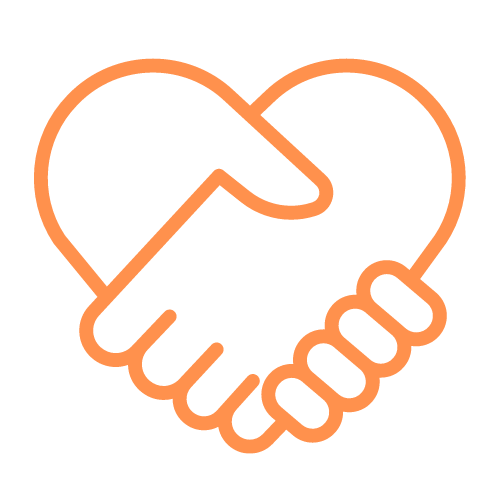
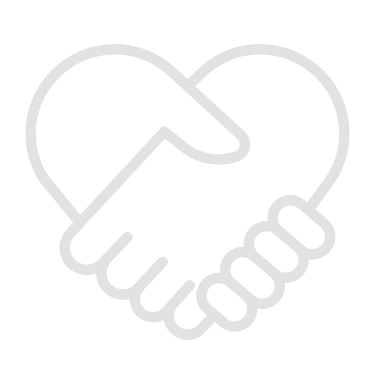
cambios

Changed region(s): [[0.0587, 0.1173, 0.9387, 0.9093]]

diff --git a/BunkGym/src/components/NuestroEquipo/NuestroEquipo.css b/BunkGym/src/components/NuestroEquipo/NuestroEquipo.css
@@ -1,10 +1,11 @@
-.nuestro-equipo{
+.nuestro-equipo {
     background-color: rgb(185, 185, 185);
     padding-top: 3rem;
     padding-bottom: 2rem;
+    overflow: hidden;
 }
-.nuestro-equipo-container{
-    
+
+.nuestro-equipo-container {
     display: flex;
     flex-direction: column;
     align-items: center;
@@ -13,16 +14,19 @@
     padding: 1rem;
     gap: 2rem;
 }
-.nuestro-equipo-card{
+
+.nuestro-equipo-card {
     display: flex;
     flex-direction: column;
     align-items: center;
-    justify-content: center;
+    justify-content: start;
     gap: 8px;
     width: 13%;
-    height: 300px;
+    height: 260px;
+    position: relative;
 }
-.nuestro-equipo-lista{
+
+.nuestro-equipo-lista {
     display: flex;
     flex-direction: row;
     gap: 20px;
@@ -30,51 +34,20 @@
     padding: 2rem 0;
 }
 
-.nuestro-equipo-imagen{
-    width: 170px;
-    height: 170px;
-    border-radius: 5%;
-    object-fit: cover;
-    margin-bottom: 30px;
-    background-color: rgb(87, 231, 236);
+.imagen-container {
     position: relative;
+    width: 170px;
+    height: 180px;
 }
 
+.nuestro-equipo-imagen-fondo,
 .nuestro-equipo-imagen {
-    width: 170px;
-    height: 180px;
-    border-radius: 5%;
-    object-fit: cover;
-    margin-bottom: 30px;
-    background-color: rgb(87, 231, 236);
-    position: relative;
-    overflow: hidden; /* Asegúrate de que el pseudo-elemento no se salga del contorno del borde redondeado */
-}
-
-.nuestro-equipo-card .imagen-container {
-    position: relative;
-    width: 170px;
-    height: 180px;
-}
-
-.nuestro-equipo-imagen-fondo, .nuestro-equipo-imagen {
-    position: absolute;
-    top: 0;
-    left: 0;
     width: 100%;
-    height: 100%;
     border-radius: 5%;
     object-fit: cover;
 }
 
-.nuestro-equipo-imagen-fondo {
-    filter: blur(1px); /* Opcional: efecto de desenfoque para la imagen de fondo */
-    transform: translate(10px, 10px); /* Desplaza la imagen de fondo */
-    z-index: 5; /* Asegura que la imagen de fondo esté detrás */
-}
-
-
-.nuestro-equipo-nombre{
+.nuestro-equipo-nombre {
     font-size: 1.3rem;
     font-weight: 600;
     text-align: center;
@@ -82,24 +55,38 @@
     text-transform: uppercase;
 }
 
-
-
-
-.nuestro-equipo-titulo{
+.nuestro-equipo-titulo {
     font-size: 1rem;
     font-weight: 400;
     text-align: center;
 }
 
-.nuestro-equipo-text    {
-    font-size: 1.2rem;
-    font-weight: 400;
-    text-align: center;
-    letter-spacing: 1px;
-    color: #2e2e2e;
-}
-
-.nuestro-equipo-subtitulo{
+.nuestro-equipo-subtitulo {
     width: 75%;
-
+}
+.nuestro-equipo-imagen{
+    width: 100%;
+    border-radius: 5%;
+    object-fit: cover;
+    z-index: 6;
+}
+.imagen-frame{
+    border: 1px solid white;
+    width: 100%;
+    height: 100%;
+    position: absolute;
+    top: 3px;
+    left: 4px;
+    z-index: 0;
+    border-radius: 5px;
+}
+.imagen-frame2{
+    width: 100%;
+    height: 100%;
+    position: absolute;
+    top: -5px;
+    left: -5px;
+    z-index: -0;
+    border-radius: 5px;
+    border: 1px solid rgb(27, 27, 27);
 }

diff --git a/BunkGym/src/components/NuestroEquipo/NuestroEquipo.jsx b/BunkGym/src/components/NuestroEquipo/NuestroEquipo.jsx
@@ -8,7 +8,7 @@ import imagenJavier from '../../assets/fotopersona.png';
 import imagenSevillano from '../../assets/fotopersona.png';
 import imagenJorge from '../../assets/fotopersona.png';
 import imagenDavid from '../../assets/fotopersona.png';
-import exampleimage  from '../../assets/27.png';
+import exampleimage from '../../assets/27.png';
 
 const NuestroEquipo = () => {
     // Definir los miembros del equipo
@@ -33,8 +33,9 @@ const NuestroEquipo = () => {
                 {miembros.map((miembro, index) => (
                     <div key={index} className='nuestro-equipo-card'>
                         <div className='imagen-container'>
-                            <img src={miembro.imagenFondo} alt={`Fondo de ${miembro.nombre}`} className='nuestro-equipo-imagen-fondo'/>
-                            <img src={miembro.imagen} alt={miembro.nombre} className='nuestro-equipo-imagen'/>
+                            <img src={miembro.imagen} alt={miembro.nombre} className='nuestro-equipo-imagen' />
+                            <div className='imagen-frame'></div>
+                            <div className='imagen-frame2'></div>
                         </div>
                         <h3 className='nuestro-equipo-nombre'>{miembro.nombre}</h3>
                         <p className='nuestro-equipo-titulo'>{miembro.titulo}</p>

diff --git a/BunkGym/src/components/Paraquien/Paraquien.jsx b/BunkGym/src/components/Paraquien/Paraquien.jsx
@@ -1,11 +1,11 @@
 import React, { useState } from 'react'
 import './Paraquien.css'
-import paraquien1 from '../../assets/3.png'
-import paraquien2 from '../../assets/4.png'
-import paraquien3 from '../../assets/5.png'
-import paraquien4 from '../../assets/6.png'
-import paraquien5 from '../../assets/7.png'
-import paraquien6 from '../../assets/9.png'
+import paraquien1 from '../../assets/paraquien1.png'
+import paraquien2 from '../../assets/paraquien2.png'
+import paraquien3 from '../../assets/paraquien3.png'
+import paraquien4 from '../../assets/paraquien4.png'
+import paraquien5 from '../../assets/paraquien5.png'
+import paraquien6 from '../../assets/paraquien6.png'
 
 const Paraquien = () => {
     const [hoveredImage, setHoveredImage] = useState(null);
@@ -35,7 +35,7 @@ const Paraquien = () => {
                         className="image-wrapper">
                         <p className='hover-text'>{image.text}</p>
                         <img src={image.src} alt="" style={{
-                            width: hoveredImage === index ? '280px' : '200px',
+                            width: hoveredImage === index ? '280px' : '210px',
                             transition: 'width 0.3s ease'
                         }} />
                         <div className=""></div>

diff --git a/BunkGym/src/components/Footer/Footer.css b/BunkGym/src/components/Footer/Footer.css
@@ -76,7 +76,7 @@
 .footer-title{
     font-size: 1.4rem;
     font-weight: bold;
-    color: rgb(255, 140, 0);
+    color: rgb(70, 70, 70);
 }
 .footer-ul{
     list-style: none;
@@ -94,18 +94,19 @@
     text-decoration: underline;
 }
 .span-telefono{
-    color: rgb(255, 140, 0);
+    color: rgb(125, 125, 125);
     font-weight: bold;
     font-size: 1.4rem;
 }
 .footer-button{
-    background-color: rgb(255, 140, 0);
-    color: rgb(255, 255, 255);
+    background-color: rgb(188, 188, 188);
+    color: rgb(24, 24, 24);
     border: none;
     padding: 1rem;
     border-radius: 5px;
     cursor: pointer;
     font-size: 1.4rem;
+    font-weight: 600;
 }
 
 
@@ -161,5 +162,5 @@
     margin: 0;
     padding: 0;
     font-size: 1rem;
-    color: rgb(255, 129, 40);
+    color: rgb(139, 139, 139);
 }

diff --git a/BunkGym/src/components/Footer/Footer.jsx b/BunkGym/src/components/Footer/Footer.jsx
@@ -100,7 +100,7 @@ const Footer = () => {
                     <div className="footer-section">
                         <h3 className='footer-title'>Novedades y descuentos<br></br> exclusivos</h3>
                         <p>Ingresa tu correo electrónico</p>
-                        <button className='footer-button'>Suscribirme?</button>
+                        <button className='footer-button'>Suscribirme</button>
                         <h3 className='footer-title'>Siguenos</h3>
                     </div>
                 </div>

diff --git a/BunkGym/src/components/ImageSection/ImageSection.css b/BunkGym/src/components/ImageSection/ImageSection.css
@@ -17,12 +17,15 @@
   justify-content: center;
   padding: 1rem;
   align-items: center;
+  flex-wrap: nowrap; /* Prevent wrapping to the next line */
+  overflow-x: auto; /* Enables horizontal scrolling if the images overflow the container */
 }
 
 .image-container {
   position: relative;
-  width: 350px;
-  height: 350px;
+  flex: 1; /* Allows the box to grow */
+  min-width: 150px; /* Minimum width before wrapping */
+  height: 300px; /* Fixed height */
   overflow: hidden;
 }
 

diff --git a/BunkGym/src/components/Paraquien/Paraquien.css b/BunkGym/src/components/Paraquien/Paraquien.css
@@ -9,6 +9,7 @@
     align-items: center;
     gap: 2rem;
     padding: 0 15%;
+    overflow: hidden;
 }
 
 .paraquien-title {
@@ -48,7 +49,7 @@
 
 .image-wrapper {
     position: relative;
-    height: 750px;
+    height: 650px;
     overflow: hidden;
     
 }

diff --git a/BunkGym/src/components/Experiencia360/Experiencia360.css b/BunkGym/src/components/Experiencia360/Experiencia360.css
@@ -6,7 +6,7 @@
     align-items: center;
     justify-content: center;
     padding: 3rem;
-    background-color: rgb(254, 243, 243);
+    background-color: rgb(255, 255, 255);   
     position: relative;
 }
 
